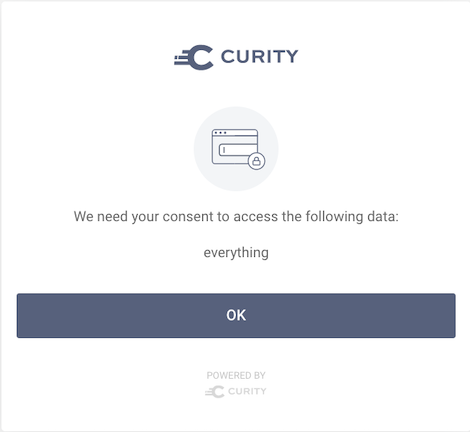
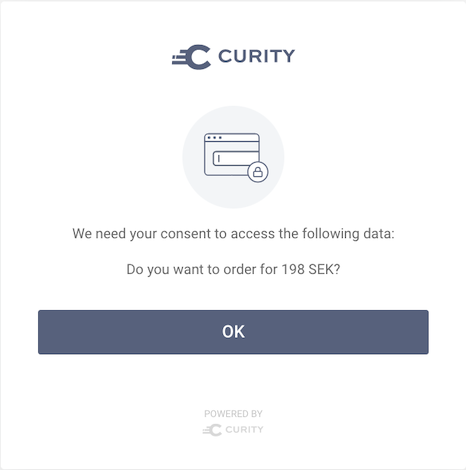
Clean up code and improve documentation

diff --git a/src/main/java/com/example/curity/consentor/ExampleConsentor.java b/src/main/java/com/example/curity/consentor/ExampleConsentor.java
@@ -20,6 +20,7 @@ import java.util.Optional;
 public final class ExampleConsentor implements Consentor
 {
     public static String APPROVED = "exampleConsentorApproved";
+    private final String _scopePrefix;
     private final ExampleConsentorConfig _configuration;
     private final SessionManager _sessionManager;
     private final WebServiceClient _webServiceClient;
@@ -31,6 +32,7 @@ public final class ExampleConsentor implements Consentor
         _sessionManager = configuration.getSessionManager();
         _webServiceClient = configuration.getWebServiceClient();
         _jsonService = configuration.getJsonService();
+        _scopePrefix = configuration.getScopePrefix();
 
         // See examples of consentors on GitHub: https://github.com/search?q=topic%3Aconsentor+org%3Acurityio
     }
@@ -80,14 +82,13 @@ public final class ExampleConsentor implements Consentor
     }
 
     private Optional<String> getTransactionId(ConsentAttributes consentAttributes) {
-        String scopePrefix = _configuration.getScopePrefix() + "_";
         Collection<String> scopes = consentAttributes.getScopeNames();
 
         return scopes.stream()
                 .filter((scope -> scope
-                .startsWith(scopePrefix)))
+                .startsWith(_scopePrefix)))
                 .findFirst()
-                .map(scope -> scope.replace(scopePrefix,""));
+                .map(scope -> scope.replace(_scopePrefix,""));
     }
 
     private Optional<String> getTextToDisplay(Optional<String> transactionId) {
@@ -98,10 +99,7 @@ public final class ExampleConsentor implements Consentor
 
             HttpResponse apiResponse = _webServiceClient.request().get().response();
             if (apiResponse.statusCode() == 200) {
-                //Map<String, Object> jsonObjectMap = apiResponse.body(HttpResponse.asJsonObject(_configuration.getJsonService()));
-                //textToDisplay = "Do you want to order for " + jsonObjectMap.get("total_price") + " SEK?";
                 String jsonResponse = apiResponse.body(HttpResponse.asString());
-//                String jsonResponse = "[{\"id\": 123, \"item_count\": 2,\"total_price\": 198, \"status\": \"created\", \"transactionId\": 123}]";
                 List<?> jsonList = _jsonService.fromJsonArray(jsonResponse);
                 Optional<Map> order = jsonList.stream().map(Map.class::cast).findFirst();
 

diff --git a/README.md b/README.md
@@ -3,12 +3,12 @@
 [![Quality](https://img.shields.io/badge/quality-experiment-red)](https://curity.io/resources/code-examples/status/)
 [![Availability](https://img.shields.io/badge/availability-source-blue)](https://curity.io/resources/code-examples/status/)
 
-A consentor that presents the value of a (prefix) scope and asks the user to confirm the value.
+A consentor that takes the value of a (prefix) scope, queries an API for details and presents a screen to the user for confirmation.
 
 This project provides an example of a consentor plugin for Curity Identity Server. The code shows how to configure and implement a custom consentor of type example-consentor. You can do basically anything in a plugin. 
 
 In this example we show how you can call an API for getting data during an approval flow. We also show how to present this data to the user.
-The resulting consentor will use an identifier from the user's session and retrieve more data based on this identifier from an external API. We assume that the identifier is part of a prefix scope used by the client. We refer to the identifier as the transaction id.
+The resulting consentor will use an id from the user's session and take the value to query an external API. We assume that the id is part of a prefix scope used by the client. The prefix in this example is called `transactionId`.
 
 ## System Requirements
 Curity Identity Server 6.0.0 and its system requirements <https://developer.curity.io/docs/latest/system-admin-guide/system-requirements.html> .
@@ -16,22 +16,24 @@ Curity Identity Server 6.0.0 and its system requirements <https://developer.curi
 ## Building the Plugin
 The source code is written entirely in Java. You will need Maven 3 and Java SDK 8 to be able to compile the plugin. 
 
-You can build the plugin by issuing the command ``mvn package``. This will produce a JAR file in the ``target`` directory. Use this JAR file during installation.
+You can build the plugin by issuing the command `mvn package`. This will produce a JAR file in the `target` directory. Use this JAR file during installation.
 
 ## Installation
 As of now there is no binary version of the plugin yet. Before installing compile the code and create a package (see above). The resulting JAR file and its dependencies are then copied in the directory `${IDSVR_HOME}/usr/share/plugins/consent.exampleconsentor` on each node, including the admin node. You can replace the plugin group `consent.exampleconsentor` with any other arbitrary name of your choice.
-For a list of the dependencies and their versions, run ``mvn dependency:list``. Ensure that all of these are installed in the plugin group; otherwise, they will not be accessible to this plugin and run-time errors will result.
+For a list of the dependencies and their versions, run `mvn dependency:list`. Ensure that all of these are installed in the plugin group; otherwise, they will not be accessible to this plugin and run-time errors will result.
 
 ## Creating the Example Consentor
 The easiest way to configure a new consentor is using the Curity admin UI.
 
-- Go to the `Profiles` page. Select a profile of type Token Service Profile. We refer to it as the `Token Service Profile`. This is where the consentor instance should be created.
+- Go to the `Profiles` page. Select a profile of type Token Service Profile. This is where the consentor instance should be created.
 - Navigate lower in the `General` section and at the `Consentors` sub-section click the `New consentor` button.
-- Once the pop up shows up, type a name/identifier for the consentor and select the type `Example`. Click `Next`.
-- Enter the prefix of the scope for the transaction id that the client uses during login.
-- Point out the location of the API used for the consent data.
+- Once the pop-up shows up, type a name/identifier for the consentor and select the type `Example`. Click `Next`.
+- Enter the prefix of the scope for the transaction id that the client will request during login. The plugin will take the first scope that starts with the prefix and parse the value (suffix).
+- Configure the API endpoint to query. In this example the query will look like `<protocol>://<hostname>:<port><path>?transactionId=<value from scope>` where `<value from scope>` is the suffix from the scope as described above. 
+- Select an HTTP client that will be used for communicating with the API. The HTTP client defines among others the protocol to be used, i.e. HTTP or HTTPS.
 - Commit the configuration changes.
 
+![Create and update the Example Consentor](docs/images/update-example-consentor.png?raw=true "Update Example Consentor")
 
 ## Using the Example Consentor
 Assign the Example Consentor to a client and make sure the client may use the scope defined in the configuration of the Example Consentor. When a user logs in using the client Curity Identity Server will ask for consent before issuing any tokens. 
@@ -39,7 +41,7 @@ Assign the Example Consentor to a client and make sure the client may use the sc
 - In `Token Service Profile` open `Clients` and select a client of your choice. We will use a client called `www`.
 - Navigate to the section called `OAuth\OpenID Settings` and scroll to the `User Consent` part of the section.
 - Enable `User Consent` and `Only Consentors` since we only want to use the custom consentor from this example and not the built-in screens.
-- In the list of consentors add the consentor configured above.
+- In the list of consentors add the Example Consentor configured above.
 - Commit the configuration changes.
 
 ![Configure Client with Example Consentor](docs/images/configure-client-with-example-consentor.png?raw=true "Enable Consentors on Client")
@@ -52,9 +54,31 @@ When a user logs in with the client Curity Identity Server will show a prompt as
 
 ![Consent Screen](docs/images/example-consentor-screen.png?raw=true "Consent Screen")
 
+## Under the Hood
+### Assumptions
+The plugin expects the API to support the query-parameter `transactionId`. The response from the API is a JSON array with the objects that match the query. The plugin then reads the first JSON object in the list. It takes the value of the attribute `total_price` and includes it in the confirmation screen. 
+
+### Calling the API
+ The request to the API looks similar to the following one but changes according to the configuration of the consentor plugin:
+
+```
+  GET http://hostname:80/orders?transactionId=123
+  
+  HTTP/1.1 200 OK
+  Content-Type: application/json; charset=utf-8 
+  [
+    {
+      "id": 123,
+      "item_count": 2,
+      "total_price": 198,
+      "status": "created",
+      "transactionId": 123
+    }
+  ]
+```
 
 ### Note
-This code is just for demonstration. Its purpose is to show the basic features of a consent plugin and provide basic classes. It is by no means complete and has known limitations. For example, it is missing an opt-out workflow and lacks error handling, but it includes everything to get started with a consent plugin.
+This code is just for demonstration. Its purpose is to show the basic features of a consent plugin and provide basic classes. It is by no means complete and has known limitations. For example, it is missing an opt-out workflow, lacks error handling and has hardcoded values, but it includes everything to get started with a consent plugin.
 
 #### License
 
